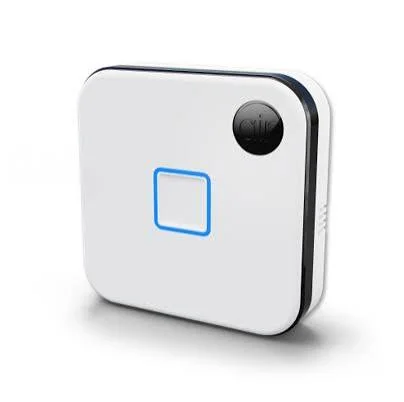
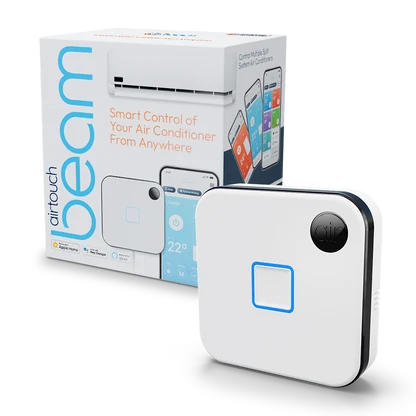
feat(projects): Beam app image, mobile project thumbnails and gallery
- AirTouch Beam: the supplied at-beam-content image is removed and
  replaced by the user's at-beam-app image (the Beam app on a phone) on
  the Beam product page and in the homepage Beam gallery. The user's
  replacement at-beam-device image (unit beside its retail box) is
  committed, and alt text on both is rewritten to match what they show.
  The two feature lines first read off at-beam-content keep their text,
  with their source noted as removed.
- Homepage Projects room on mobile: each product row now has a
  thumbnail beside its text, and the product detail sheet shows the same
  swipeable 3D image gallery as desktop, sized for a phone.

diff --git a/src/components/rooms/RoomShell.tsx b/src/components/rooms/RoomShell.tsx
@@ -3,6 +3,8 @@
 import { useCallback, useMemo, useRef, useState } from 'react';
 import { Accent } from '@/components/ui/Accent';
 import { TypeText } from '@/components/ui/TypeText';
+import { Carousel3D } from '@/components/ui/Carousel3D';
+import { ImageSlot } from '@/components/ui/ImageSlot';
 import { BrandLogo } from '@/components/shell/BrandLogo';
 import { ThemeToggle } from '@/components/shell/ThemeToggle';
 import type { Role } from '@/lib/roles';
@@ -303,6 +305,17 @@ function MobilePane({
             <span aria-hidden="true">×</span>
           </button>
         </div>
+        {/* Same swipeable 3D gallery as the desktop device view, sized for a phone. */}
+        <Carousel3D
+          slides={[{ src: `/${p.asset}`, alt: `${p.name} — ${p.kicker}` }, ...p.gallery]}
+          label={`${p.name} images`}
+          ratio="4/3"
+          fit="contain"
+          tone="chrome"
+          itemWidth={0.72}
+          sizes="72vw"
+          className="mt-[16px]"
+        />
         <p className="mt-[14px] text-[15px] leading-[1.62] text-chrome-body">{p.copy}</p>
         <a
           href={p.href}
@@ -355,19 +368,25 @@ function MobilePane({
               key={p.name}
               type="button"
               onClick={(e) => onOpenDevice(i, e.currentTarget)}
-              className="hover-box min-h-tap bg-chrome-plate px-[16px] py-[16px] text-left"
+              className="hover-box flex min-h-tap items-center gap-[14px] bg-chrome-plate px-[14px] py-[14px] text-left"
             >
-              <span className="block font-mono text-[10.5px] uppercase tracking-[0.14em] text-chrome-meta">
-                {p.tag}
+              {/* Product thumbnail. alt="" because the product name follows in the same button. */}
+              <span className="block w-[92px] flex-none">
+                <ImageSlot src={`/${p.asset}`} ratio="4/3" alt="" label={p.asset} sizes="92px" fit="contain" />
               </span>
-              <span className="mt-2 block font-display text-[22px] font-bold text-chrome-ink">
-                {p.name}
-              </span>
-              <span className="mt-2 block text-[14.5px] leading-[1.55] text-chrome-body">
-                {p.copy}
-              </span>
-              <span className="mt-3 block text-[15px] font-semibold text-chrome-link">
-                Open device <span aria-hidden="true">→</span>
+              <span className="min-w-0 flex-1">
+                <span className="block font-mono text-[10.5px] uppercase tracking-[0.14em] text-chrome-meta">
+                  {p.tag}
+                </span>
+                <span className="mt-2 block font-display text-[22px] font-bold text-chrome-ink">
+                  {p.name}
+                </span>
+                <span className="mt-2 block text-[14.5px] leading-[1.55] text-chrome-body">
+                  {p.copy}
+                </span>
+                <span className="mt-3 block text-[15px] font-semibold text-chrome-link">
+                  Open device <span aria-hidden="true">→</span>
+                </span>
               </span>
             </button>
           ))}

diff --git a/src/components/rooms/panes/copy.ts b/src/components/rooms/panes/copy.ts
@@ -86,22 +86,23 @@ export const PROJECT_COPY: ProjectCopy[] = [
     gallery: [
       {
         src: '/projects/at-beam-device.webp',
-        alt: 'The AirTouch Beam unit, a small white square with an illuminated indicator',
+        alt: 'The AirTouch Beam unit beside its retail box, which shows the Beam app on a phone and a wall-mounted air conditioner',
       },
       {
-        src: '/projects/at-beam-content.webp',
-        alt: 'A Beam unit signalling to three different wall-mounted split-system air conditioners',
+        src: '/projects/at-beam-app.webp',
+        alt: 'The AirTouch Beam app on a phone: the Lounge zone set to 23°, with heat, fan speed, swing and auto controls, a timer and programs',
       },
     ],
     /*
-     * at-beam-content.webp shows one Beam and three DIFFERENT split systems.
+     * The removed supplied image at-beam-content.webp (replaced by at-beam-app.webp
+     * on user request 2026-09-13) showed one Beam and three DIFFERENT split systems.
      * That is a statement about compatibility across makes — and the official
      * FAQ confirms "One Beam unit controls one air conditioner". Do not upgrade
      * any line here to imply multi-unit control.
      */
     features: [
-      { label: 'Works with any split system', from: 'at-beam-content.webp' },
-      { label: 'Wireless — no rewiring', from: 'at-beam-content.webp' },
+      { label: 'Works with any split system', from: 'at-beam-content.webp (supplied image, removed 2026-09-13)' },
+      { label: 'Wireless — no rewiring', from: 'at-beam-content.webp (supplied image, removed 2026-09-13)' },
       { label: 'Matter-enabled', from: 'PRODUCTS[1].tag — confirmed by user 2026-09-13' },
       { label: 'Apple Home, Google and Alexa', from: 'airtouchhome.com.au Beam page' },
     ],

diff --git a/src/app/(site)/projects/projects-copy.ts b/src/app/(site)/projects/projects-copy.ts
@@ -115,7 +115,7 @@ export const BEAM: ProductPageCopy = {
   summary: 'Turns any split-system air conditioner into a smart, efficient, customisable unit.',
   hero: {
     src: '/projects/at-beam-device.webp',
-    alt: 'The AirTouch Beam unit, a small white square with an illuminated indicator',
+    alt: 'The AirTouch Beam unit beside its retail box, which shows the Beam app on a phone and a wall-mounted air conditioner',
   },
   sections: [
     {
@@ -128,8 +128,8 @@ export const BEAM: ProductPageCopy = {
        */
       body: 'The AirTouch Beam is created through a meticulous, iterative process involving AirdroiTech’s R&D, hardware and software development, and extensive testing to ensure it meets the highest standards of performance and user experience. Our engineers contributed greatly: firmware engineers, hardware engineers and mobile developers worked together to bring it to life, each contributing their expertise to make managing air conditioning smarter, simpler and more efficient.',
       figure: {
-        src: '/projects/at-beam-content.webp',
-        alt: 'A Beam unit signalling to three different wall-mounted split-system air conditioners',
+        src: '/projects/at-beam-app.webp',
+        alt: 'The AirTouch Beam app on a phone: the Lounge zone set to 23°, with heat, fan speed, swing and auto controls, a timer and programs',
       },
     },
     {
